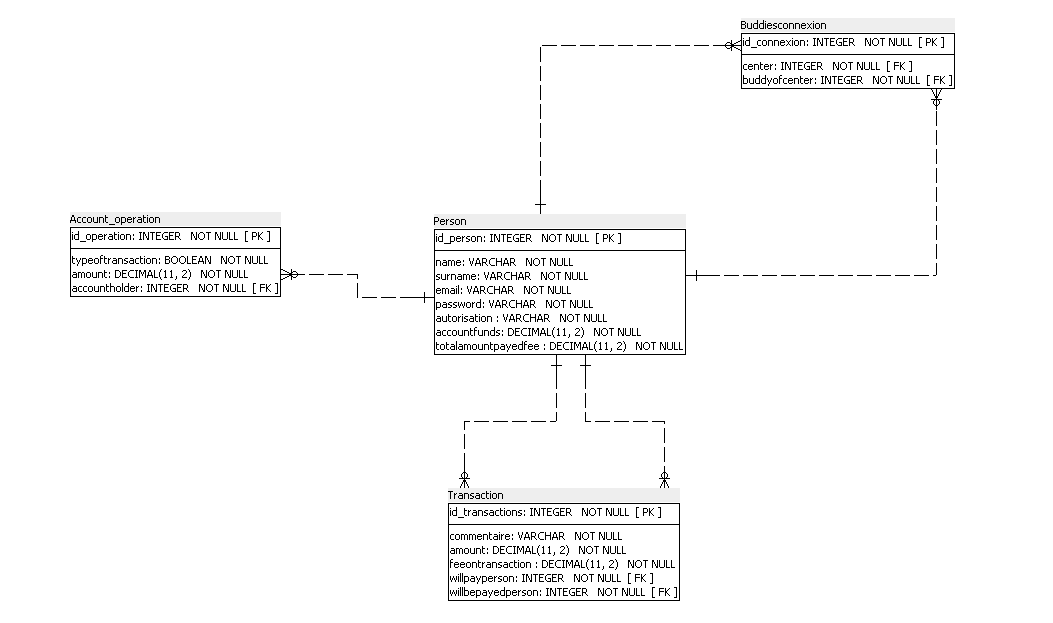
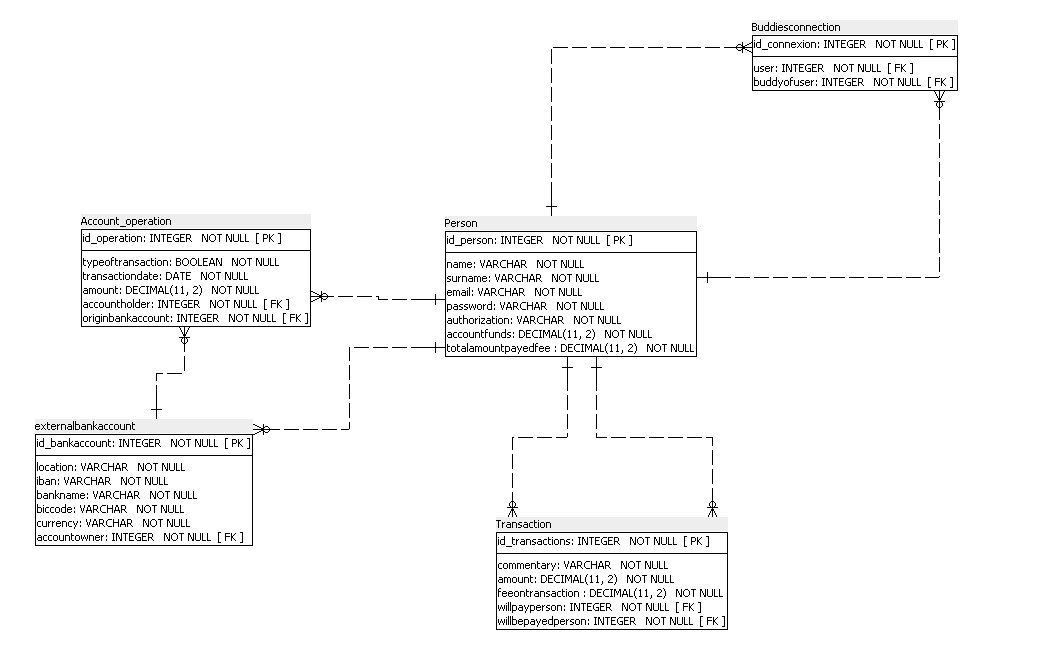
Finalizing the requirements from evaluator

diff --git a/src/main/resources/templates/home_page.html b/src/main/resources/templates/home_page.html
@@ -139,13 +139,15 @@
 										aria-label="Close"></button>
 								</div>
 								<div class="modal-body">
-									<inputtype="text" class="form-control commonSize" placeholder="Your bank name"
-										aria-label="Input group example" aria-describedby="basic-addon1"
-										th:field="*{bankName}" required>
-										<input type="text" class="form-control commonSize"
+				
+										
+										<input type="text" class="form-control commonSize mb-1" placeholder="Bank Name"
+											aria-label="Input group example" aria-describedby="basic-addon1"
+											th:field="*{bankName}" required>							
+										<input type="text" class="form-control commonSize mb-1"
 											placeholder="The Bank localization" aria-label="Input group example"
 											aria-describedby="basic-addon1" th:field="*{location}" required>
-										<input type="text" class="form-control commonSize" placeholder="Your BIC Code"
+										<input type="text" class="form-control commonSize mb-1" placeholder="Your BIC Code"
 											aria-label="Input group example" aria-describedby="basic-addon1"
 											th:field="*{bicCode}" required>
 										<input type="text" class="form-control commonSize" placeholder="Your IBAN"
@@ -232,7 +234,7 @@
 								</div>
 								<div class="modal-body">
 
-									<select th:field="*{bankAccountToDoOperationID}" required>
+									<select class="form-select form-select-sm mb-2" th:field="*{bankAccountToDoOperationID}" required>
 										<option th:each="bud : ${listOfAllBankAccountOwned}" th:value="${bud.key}"
 											th:text="${bud.value}" />
 									</select>
@@ -269,7 +271,7 @@
 								</div>
 								<div class="modal-body">
 
-									<select th:field="*{bankAccountToDoOperationID}" required>
+									<select class="form-select form-select-sm mb-2" th:field="*{bankAccountToDoOperationID}" required>
 										<option th:each="bud : ${listOfAllBankAccountOwned}" th:value="${bud.key}"
 											th:text="${bud.value}" />
 									</select>

diff --git a/src/main/java/com/example/paymybuddy/service/OperationOnAccountServices.java b/src/main/java/com/example/paymybuddy/service/OperationOnAccountServices.java
@@ -43,20 +43,17 @@ public class OperationOnAccountServices {
 	}
 
 	@Transactional
-	public void saveForDepositorWithdrawal(Person currentUser, BankAccountWithdrawalDepositInformation withdrawMoney, boolean depositTrueWithdrawFalse,
-			HttpSession session) {
+	public void saveForDepositorWithdrawal(Person currentUser, BankAccountWithdrawalDepositInformation withdrawMoney,
+			boolean depositTrueWithdrawFalse, HttpSession session) {
 
 		BankOperation newBankOperation = new BankOperation();
 		newBankOperation.setDepositIsTrueWithdrawIsFalse(depositTrueWithdrawFalse);
 		newBankOperation.setHolder(currentUser);
 		newBankOperation.setAmount(withdrawMoney.getAmount());
-		ExternalBankAccount itemToSave = externalBankRepository.findById(Integer.parseInt(withdrawMoney.getBankAccountToDoOperationID())).get();
-		
-		
-		
-		logger.info("|||||C||||| TEST A in withdepot  " + itemToSave);
-		
-		
+		ExternalBankAccount itemToSave = externalBankRepository
+				.findById(Integer.parseInt(withdrawMoney.getBankAccountToDoOperationID())).get();
+
+		logger.info("|" + itemToSave);
 
 		newBankOperation.setLinkedAccount(itemToSave);
 		newBankOperation.setTransactionDate(new Date(System.currentTimeMillis()));
@@ -77,17 +74,15 @@ public class OperationOnAccountServices {
 
 		currentUser.setAccountFunds(finalAmountSaved);
 		userRepository.save(currentUser);
-		
+
 		BankOperation newItemBankOp = bankAccountRepository.save(newBankOperation);
-		
+
 		List<BankOperation> listing = itemToSave.getListOfOperationDoneOnThisAccount();
-		
+
 		listing.add(newItemBankOp);
-			
+
 		itemToSave.setListOfOperationDoneOnThisAccount(listing);
 		externalBankRepository.save(itemToSave);
-		
-		
 
 		List<BankOperation> theListInSession = (List<BankOperation>) session.getAttribute("listOfAllOperations");
 
@@ -124,8 +119,8 @@ public class OperationOnAccountServices {
 
 	public boolean checkIfCurrentBankExistsInTheAttribute(Person currentUser, BankInformation bankInformation) {
 
-		if (externalBankRepository.findByIbanAndBiccode(bankInformation.getIban(),
-				bankInformation.getBicCode()) == null) {
+		if (externalBankRepository.findByIbanAndBiccodeAndBankname(bankInformation.getIban(),
+				bankInformation.getBicCode(), bankInformation.getBankName()) == null) {
 
 			return false;
 
@@ -139,48 +134,38 @@ public class OperationOnAccountServices {
 	public void saveANewBankForCurrentUser(Person currentUser, BankInformation bankInformation, HttpSession session) {
 
 		ExternalBankAccount newItem = new ExternalBankAccount();
+
 		newItem.setBiccode(bankInformation.getBicCode());
+		newItem.setBankname(bankInformation.getBankName());
 		newItem.setIban(bankInformation.getIban());
 		newItem.setLocation(bankInformation.getLocation());
 		newItem.setAccountOwner(currentUser);
 		newItem.setCurrency("EURO");
 		newItem.setListOfOperationDoneOnThisAccount(new ArrayList<BankOperation>());
 
-		logger.info("|||||A||||| TEST A in SAVE A NEW BANK BEFORE findbyId " + newItem);
-		
-		
-		
-		ExternalBankAccount testItem  = externalBankRepository.save(newItem);
-		
-		
-		
-		logger.info("|||||B||||| TEST A in SAVE A NEW BANK AFTER findbyId " + testItem);
+		ExternalBankAccount testItem = externalBankRepository.save(newItem);
 
-		List<ExternalBankAccount> theListInSession = (List<ExternalBankAccount>) session.getAttribute("listOfAllBankAccountOwned");
+		List<ExternalBankAccount> theListInSession = (List<ExternalBankAccount>) session
+				.getAttribute("listOfAllBankAccountOwned");
 
 		theListInSession.add(testItem);
+
 		session.setAttribute("listOfAllBankAccountOwned", theListInSession);
 
 	}
-	
+
 	public Map<Integer, String> createTheListForUIOperation(List<ExternalBankAccount> listOfAllBankAccountOwned) {
-	
-		
+
 		Map<Integer, String> result = new HashMap<>();
-		
-		for(ExternalBankAccount eba : listOfAllBankAccountOwned) {
-			
-			
-			result.put(eba.getId(), "BANKLocation : " + eba.getLocation() + ", IBAN : " + eba.getIban());
-			
+
+		for (ExternalBankAccount eba : listOfAllBankAccountOwned) {
+
+			result.put(eba.getId(), "BANK Name : " + eba.getBankname() + ", IBAN : " + eba.getIban());
+
 		}
-		
-		
+
 		return result;
 	}
-
-	
-	
 
 	// ====== Setters of repository solely needed for testing purposes.
 	// ====== Once the app is validated, and for security reasons, these setters
@@ -197,7 +182,5 @@ public class OperationOnAccountServices {
 	public void setExternalBankRepository(ExternalBankRepository externalBankRepository) {
 		this.externalBankRepository = externalBankRepository;
 	}
-
-	
 
 }

diff --git a/src/test/java/com/example/paymybuddy/test/servicesTests.java b/src/test/java/com/example/paymybuddy/test/servicesTests.java
@@ -19,6 +19,7 @@ import org.junit.jupiter.api.BeforeEach;
 
 import com.example.paymybuddy.dto.AdminDataForDashboard;
 import com.example.paymybuddy.dto.BankAccountWithdrawalDepositInformation;
+import com.example.paymybuddy.dto.BankInformation;
 import com.example.paymybuddy.dto.BuddiesInConnexion;
 import com.example.paymybuddy.dto.LoginRegistration;
 import com.example.paymybuddy.dto.PaymentData;
@@ -39,11 +40,13 @@ import com.example.paymybuddy.service.UserServices;
 import org.junit.jupiter.api.Test;
 import org.junit.jupiter.api.extension.ExtendWith;
 import org.mockito.ArgumentCaptor;
+import org.mockito.Matchers;
 import org.mockito.Mock;
 import org.mockito.junit.jupiter.MockitoExtension;
 import org.springframework.beans.factory.annotation.Autowired;
 import org.springframework.boot.test.context.SpringBootTest;
 import org.springframework.context.annotation.Bean;
+import org.springframework.data.repository.CrudRepository;
 import org.springframework.security.crypto.bcrypt.BCryptPasswordEncoder;
 
 @SpringBootTest
@@ -94,6 +97,10 @@ public class servicesTests {
 	final ArgumentCaptor<BankOperation> bankOperationCaptor = ArgumentCaptor.forClass(BankOperation.class);
 
 	final ArgumentCaptor<Person> personCaptorTwo = ArgumentCaptor.forClass(Person.class);
+	
+	
+	final ArgumentCaptor<ExternalBankAccount> externalAccountCaptor = ArgumentCaptor.forClass(ExternalBankAccount.class);
+	final ArgumentCaptor<String> externalAccountStringCaptor = ArgumentCaptor.forClass(String.class);
 
 	@BeforeEach
 	public void init() {
@@ -218,6 +225,49 @@ public class servicesTests {
 		Boolean actual = operationServices.checkIfCurrentUserCanStillDepositToItsAccount(currentUser, 999999999999.99);
 		assertEquals(actual, false);
 
+	}
+	
+	@Test
+	public void test_saveANewBankForCurrentUser(){
+		
+		operationServices.setExternalBankRepository(externalAccountRepo);
+		BankInformation bankInfo = new BankInformation();
+		bankInfo.setBankName("Agricole Credit");
+		bankInfo.setBicCode("DEF");
+		bankInfo.setIban("ABCDEF");
+		bankInfo.setLocation("Paris");
+		
+		ExternalBankAccount testItem = new ExternalBankAccount();
+		testItem.setAccountOwner(buddyUser);
+		testItem.setBankname("Agricole Credit");
+		testItem.setBiccode("DEF");
+		testItem.setCurrency("EURO");
+		testItem.setIban("ABCDEF");
+		testItem.setId(1);
+		testItem.setListOfOperationDoneOnThisAccount(new ArrayList<BankOperation>());
+		testItem.setLocation("Paris");
+		
+		ExternalBankAccount testItemII = new ExternalBankAccount();
+		testItemII.setAccountOwner(buddyUser);
+		testItemII.setBankname("Agricole Credit");
+		testItemII.setBiccode("DEF");
+		testItemII.setCurrency("EURO");
+		testItemII.setIban("ABCDEF");
+		testItemII.setListOfOperationDoneOnThisAccount(new ArrayList<BankOperation>());
+		testItemII.setLocation("Paris");
+		
+		
+		List<ExternalBankAccount> testIngList = new ArrayList<ExternalBankAccount>();
+		when(session.getAttribute("listOfAllBankAccountOwned")).thenReturn(testIngList);
+		
+		operationServices.saveANewBankForCurrentUser(currentUser, bankInfo, session);
+		
+		verify(session, times(1)).setAttribute(externalAccountStringCaptor.capture(), externalAccountCaptor.capture());
+		
+		List<ExternalBankAccount> actual = externalAccountCaptor.getAllValues();
+		assertTrue(actual.size() == 1);
+		
+		
 	}
 
 // =========================================================================================

diff --git a/src/main/java/com/example/paymybuddy/model/Person.java b/src/main/java/com/example/paymybuddy/model/Person.java
@@ -188,7 +188,7 @@ public class Person implements Serializable, UserDetails {
 	public List<ConnectionBetweenBuddies> getListOfBuddies() {
 
 		logger.info(
-				"Lazy Fetch need to be initialize in the transactional context in order to be avaiable in the session as an attribute (the real list can be given and not just the proxy)"
+				"Lazy Fetch need to be initialize to send something else than a proxy in the session"
 						+ listOfBuddies.size());
 
 		return listOfBuddies;
@@ -203,7 +203,7 @@ public class Person implements Serializable, UserDetails {
 	public List<ExternalBankAccount> getListOfAllBankAccountOwned() {
 		
 		logger.info(
-				"Test List size"
+				"Lazy Fetch need to be initialize to send something else than a proxy in the session"
 						+ listOfAllBankAccountOwned.size());
 		
 		return listOfAllBankAccountOwned;

diff --git a/src/main/java/com/example/paymybuddy/model/ExternalBankAccount.java b/src/main/java/com/example/paymybuddy/model/ExternalBankAccount.java
@@ -22,6 +22,10 @@ public class ExternalBankAccount {
 	@GeneratedValue(strategy = GenerationType.IDENTITY)
 	@Column(name = "id_bankaccount")
 	private int id;
+	
+	@Column(name = "bankname ")
+	private String bankname;
+	
 
 	@Column(name = "location")
 	private String location;
@@ -97,6 +101,16 @@ public class ExternalBankAccount {
 
 	public void setListOfOperationDoneOnThisAccount(List<BankOperation> listOfOperationDoneOnThisAccount) {
 		this.listOfOperationDoneOnThisAccount = listOfOperationDoneOnThisAccount;
+	}
+
+
+	
+	public String getBankname() {
+		return bankname;
+	}
+
+	public void setBankname(String bankname) {
+		this.bankname = bankname;
 	}
 
 	@Override

diff --git a/src/main/java/com/example/paymybuddy/controller/UserController.java b/src/main/java/com/example/paymybuddy/controller/UserController.java
@@ -45,7 +45,7 @@ public class UserController {
 	public ModelAndView setAllTheDataFromAuthenticatedUser(HttpSession session) {
 
 		Authentication authentication = SecurityContextHolder.getContext().getAuthentication();
-		logger.info("================================================||||||||||||||||||||||"
+		logger.info("="
 				+ authentication.getAuthorities().toString());
 		currentUser = userServices.getThePersonAfterAuthentication(authentication.getName());
 

diff --git a/src/main/java/com/example/paymybuddy/repository/ExternalBankRepository.java b/src/main/java/com/example/paymybuddy/repository/ExternalBankRepository.java
@@ -7,7 +7,7 @@ import com.example.paymybuddy.model.ExternalBankAccount;
 public interface ExternalBankRepository extends CrudRepository<ExternalBankAccount, Integer>{
 
 	
-	ExternalBankAccount findByIbanAndBiccode(String iban, String bic);
+	ExternalBankAccount findByIbanAndBiccodeAndBankname(String iban, String bic, String bankName);
 
 	
 }
